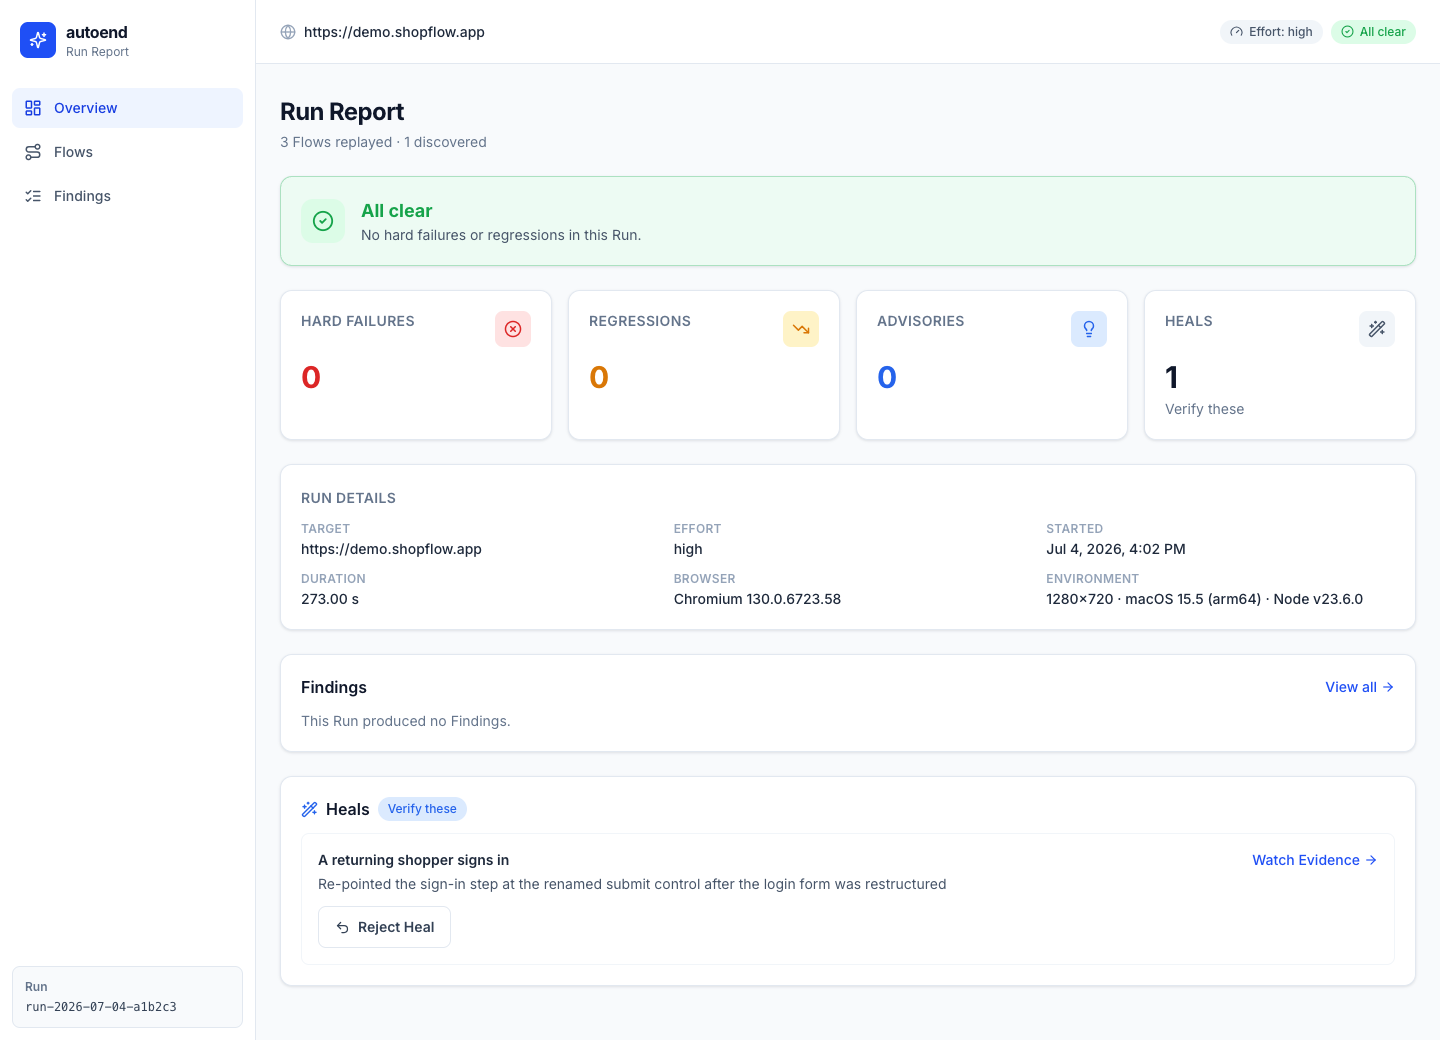
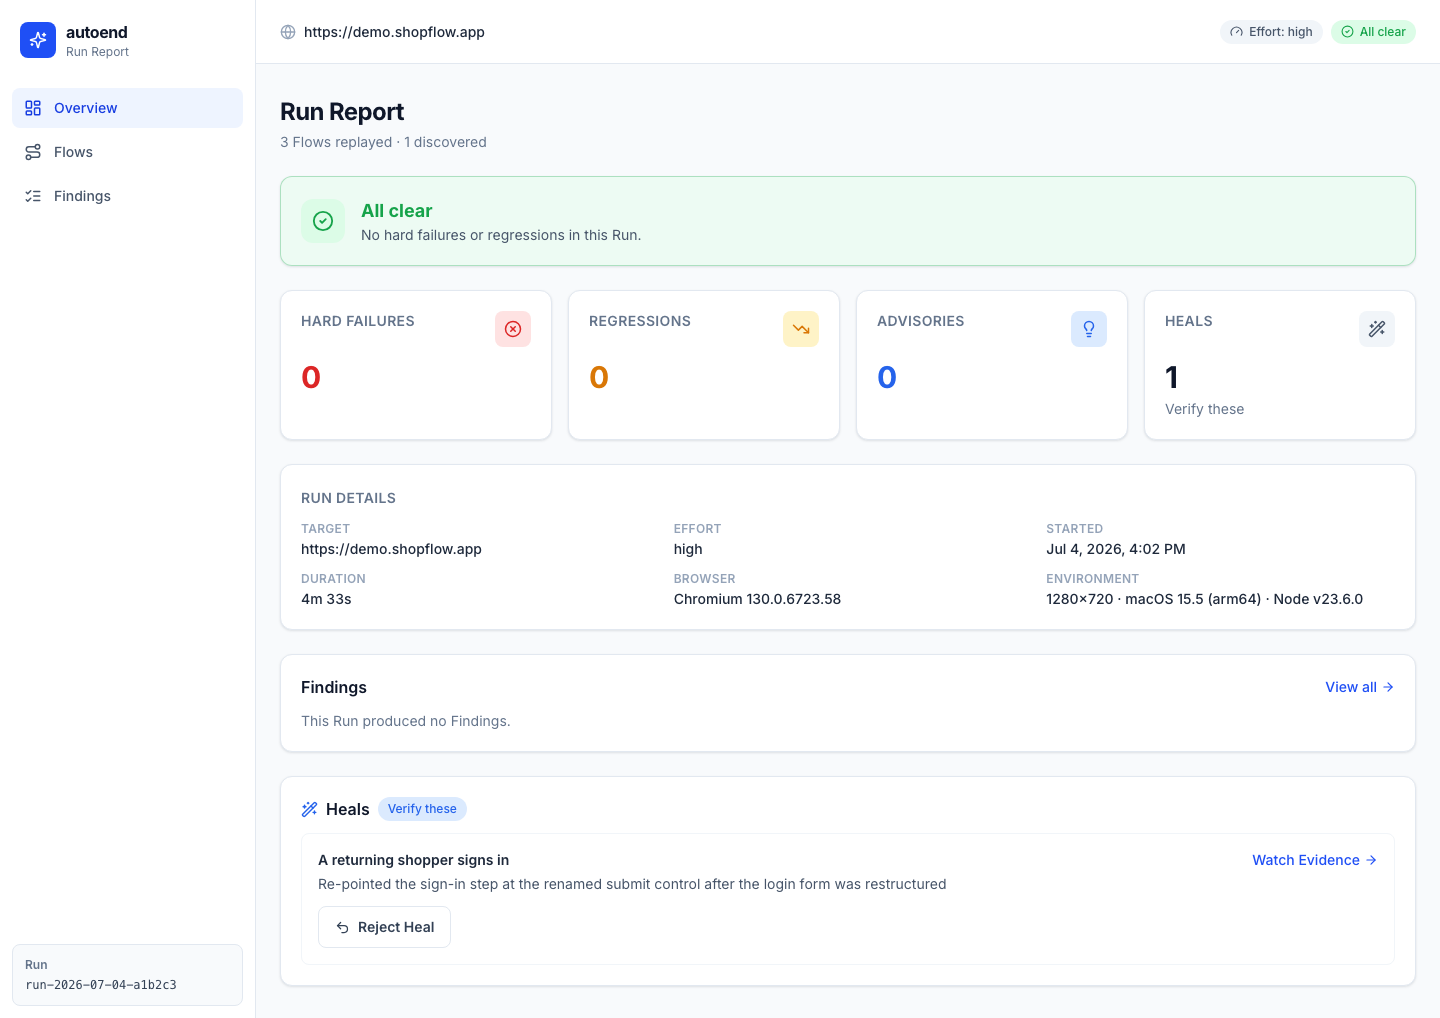
fix: final review — SPA builds to dist/spa (server.js safe + unserved), run-scale durations, viewer polish

diff --git a/src/viewer/server.ts b/src/viewer/server.ts
@@ -8,7 +8,7 @@ import { readRunArtifact, updateFinding } from '../report/artifact.js';
 
 /**
  * The thin viewer over a Run artifact (ADR-0004): serves the built lumen
- * viewer (dist/viewer) plus the artifact's files. Resolution actions
+ * viewer (dist/spa) plus the artifact's files. Resolution actions
  * (Dismiss / Reject / Suppress — one per Finding tier) are plain file edits
  * against the repo's Flow Map; they only work when a repoRoot is provided
  * (the Report is portable, the Flow Map is not). This server must stay dumb:
@@ -19,8 +19,8 @@ export interface Viewer {
   server: Server;
 }
 
-/** dist/viewer sits at the package root beside src/ and dist/ — this resolves identically from both. */
-const VIEWER_DIST = fileURLToPath(new URL('../../dist/viewer/', import.meta.url));
+/** dist/spa sits at the package root beside src/ and dist/ — this resolves identically from both. */
+const VIEWER_DIST = fileURLToPath(new URL('../../dist/spa/', import.meta.url));
 
 const CONTENT_TYPES: Record<string, string> = {
   '.html': 'text/html; charset=utf-8',
@@ -128,6 +128,7 @@ async function resolveFinding(
   res: ServerResponse,
 ): Promise<void> {
   if (action === 'reject') {
+    // TODO: design the :id semantics for Reject — Heals are not Findings and the UI currently sends heal.flowId — when Heal production lands (ADR-0006 follow-up).
     sendJson(res, 501, { error: 'Reject requires Heals, which are not produced yet (ADR-0006 follow-up)' });
     return;
   }
@@ -186,7 +187,7 @@ export function serveReport(artifactDir: string, port = 0, repoRoot?: string): P
         await resolveFinding(artifactDir, repoRoot, id, match[2] as 'dismiss' | 'suppress' | 'reject', res);
       } else if (req.method === 'GET') {
         // The built viewer: `/` is index.html (hash routing — no history
-        // fallback needed), everything else resolves inside dist/viewer.
+        // fallback needed), everything else resolves inside dist/spa.
         const decoded = decodePath(url.pathname === '/' ? 'index.html' : url.pathname.slice(1));
         const rel = decoded === null ? null : normalize(decoded);
         if (rel === null || rel.startsWith('..') || isAbsolute(rel)) {

diff --git a/viewer/src/pages/Findings.tsx b/viewer/src/pages/Findings.tsx
@@ -3,18 +3,12 @@ import { Video } from "lucide-react";
 import { PageHeader } from "../components/PageHeader";
 import { KindBadge } from "../components/StatusBadge";
 import { useReport } from "../data/report";
-import type { FindingKind } from "../types";
-
-const tierRank: Record<FindingKind, number> = {
-  "hard-failure": 0,
-  regression: 1,
-  advisory: 2,
-};
+import { TIER_RANK } from "../data/helpers";
 
 export function Findings() {
   const { artifact } = useReport();
-  const findings = [...artifact.findings].sort((a, b) => tierRank[a.kind] - tierRank[b.kind]);
-  const flowTitle = (flowId?: string) =>
+  const findings = [...artifact.findings].sort((a, b) => TIER_RANK[a.kind] - TIER_RANK[b.kind]);
+  const lookupFlow = (flowId?: string) =>
     flowId ? artifact.flows.find((f) => f.id === flowId) : undefined;
 
   return (
@@ -44,7 +38,7 @@ export function Findings() {
               </thead>
               <tbody className="divide-y divide-slate-100">
                 {findings.map((f) => {
-                  const flow = flowTitle(f.flowId);
+                  const flow = lookupFlow(f.flowId);
                   return (
                     <tr key={f.id} className="hover:bg-slate-50">
                       <td className="px-4 py-3 align-top">

diff --git a/test/viewer.test.ts b/test/viewer.test.ts
@@ -12,9 +12,9 @@ import { filterSuppressed } from '../src/run/run.js';
 import { serveReport } from '../src/viewer/server.js';
 
 const ROOT = fileURLToPath(new URL('..', import.meta.url));
-const VIEWER_DIST = join(ROOT, 'dist', 'viewer');
+const VIEWER_DIST = join(ROOT, 'dist', 'spa');
 
-// Build the lumen viewer bundle once if absent — the server under test serves it.
+// Build the lumen viewer bundle (dist/spa) once if absent — the server under test serves it.
 beforeAll(() => {
   if (!existsSync(join(VIEWER_DIST, 'index.html'))) {
     execSync('npm run build:viewer', { cwd: ROOT, stdio: 'inherit' });
@@ -128,9 +128,14 @@ describe('static viewer', () => {
     expect(res.headers.get('content-type')).toContain('text/javascript');
   });
 
-  it('rejects paths that escape dist/viewer', async () => {
+  it('rejects paths that escape the SPA root', async () => {
     const { url } = await startViewer(true);
     expect([400, 404]).toContain(await rawStatus(url, '/assets/../../package.json'));
+  });
+
+  it('does not serve the compiled server bundle from the SPA root', async () => {
+    const { url } = await startViewer(true);
+    expect(await rawStatus(url, '/server.js')).toBe(404);
   });
 });
 

diff --git a/viewer/src/components/investigation/ExportMenu.tsx b/viewer/src/components/investigation/ExportMenu.tsx
@@ -1,7 +1,7 @@
 import { useEffect, useRef, useState } from "react";
 import { Download, ChevronDown, FileJson, ClipboardCopy, Check } from "lucide-react";
-import type { Environment, FaultDomain, Finding } from "../../types";
-import { KIND_LABEL } from "../../data/helpers";
+import type { Environment, Finding } from "../../types";
+import { FAULT_LABEL, KIND_LABEL } from "../../data/helpers";
 
 interface Props {
   finding: Finding;
@@ -9,12 +9,6 @@ interface Props {
   target: string;
   environment: Environment;
 }
-
-const faultLabel: Record<FaultDomain, string> = {
-  app: "App",
-  flow: "Flow",
-  environment: "Environment",
-};
 
 /** The portable Finding export: the whole Finding, wrapped with its Run provenance. */
 function buildReport(finding: Finding, runId: string, target: string) {
@@ -34,7 +28,7 @@ function buildTextSummary(finding: Finding, env: Environment): string {
   if (d) {
     lines.push(
       "",
-      `**Diagnosis:** ${d.rootCause} — ${faultLabel[d.faultDomain]} fault, ${d.confidence}% confidence`,
+      `**Diagnosis:** ${d.rootCause} — ${FAULT_LABEL[d.faultDomain]} fault, ${d.confidence}% confidence`,
     );
   }
 

diff --git a/viewer/src/data/helpers.ts b/viewer/src/data/helpers.ts
@@ -1,4 +1,4 @@
-import type { FindingKind } from "../types";
+import type { FaultDomain, FindingKind } from "../types";
 
 export const KIND_LABEL: Record<FindingKind, string> = {
   "hard-failure": "Hard Failure",
@@ -13,10 +13,26 @@ export const KIND_TONE: Record<FindingKind, "fail" | "warn" | "ai"> = {
   advisory: "ai",
 };
 
+/** Finding tier sort order (CONTEXT.md tiers) shared by Overview / Findings. */
+export const TIER_RANK: Record<FindingKind, number> = {
+  "hard-failure": 0,
+  regression: 1,
+  advisory: 2,
+};
+
+/** Fault domain → display label shared by FailureAnalysisCard / ExportMenu. */
+export const FAULT_LABEL: Record<FaultDomain, string> = {
+  app: "App",
+  flow: "Flow",
+  environment: "Environment",
+};
+
 export function formatDuration(ms: number): string {
   if (ms <= 0) return "-";
   if (ms < 1000) return `${ms} ms`;
-  return `${(ms / 1000).toFixed(2)} s`;
+  if (ms < 60000) return `${(ms / 1000).toFixed(2)} s`;
+  const seconds = Math.round(ms / 1000);
+  return `${Math.floor(seconds / 60)}m ${seconds % 60}s`;
 }
 
 export function formatDateTime(iso: string): string {

diff --git a/viewer/src/pages/Overview.tsx b/viewer/src/pages/Overview.tsx
@@ -13,14 +13,7 @@ import { MetricCard } from "../components/MetricCard";
 import { KindBadge } from "../components/StatusBadge";
 import { ResolutionActions } from "../components/ResolutionActions";
 import { useReport } from "../data/report";
-import { formatDateTime, formatDuration } from "../data/helpers";
-import type { FindingKind } from "../types";
-
-const tierRank: Record<FindingKind, number> = {
-  "hard-failure": 0,
-  regression: 1,
-  advisory: 2,
-};
+import { formatDateTime, formatDuration, TIER_RANK } from "../data/helpers";
 
 export function Overview() {
   const { artifact } = useReport();
@@ -37,7 +30,7 @@ export function Overview() {
 
   const env = artifact.environment;
   const topFindings = [...artifact.findings]
-    .sort((a, b) => tierRank[a.kind] - tierRank[b.kind])
+    .sort((a, b) => TIER_RANK[a.kind] - TIER_RANK[b.kind])
     .slice(0, 5);
 
   return (

diff --git a/viewer/src/components/investigation/FailureAnalysisCard.tsx b/viewer/src/components/investigation/FailureAnalysisCard.tsx
@@ -1,12 +1,7 @@
 import { Stethoscope, Crosshair, Cpu } from "lucide-react";
 import type { Diagnosis, FaultDomain } from "../../types";
+import { FAULT_LABEL } from "../../data/helpers";
 import { ConfidenceMeter } from "./ConfidenceMeter";
-
-const domainLabel: Record<FaultDomain, string> = {
-  app: "App",
-  flow: "Flow",
-  environment: "Environment",
-};
 
 const domainTone: Record<FaultDomain, string> = {
   app: "bg-sky-100 text-sky-700",
@@ -22,7 +17,7 @@ export function FailureAnalysisCard({ diagnosis }: { diagnosis: Diagnosis }) {
         <h2 className="text-sm font-semibold text-status-ai">Diagnosis</h2>
         <span className={`pill ml-auto ${domainTone[diagnosis.faultDomain]}`}>
           <Cpu size={13} />
-          {domainLabel[diagnosis.faultDomain]} fault
+          {FAULT_LABEL[diagnosis.faultDomain]} fault
         </span>
       </div>
 

diff --git a/viewer/src/pages/FindingDetails.tsx b/viewer/src/pages/FindingDetails.tsx
@@ -101,7 +101,7 @@ export function FindingDetails() {
 
         <div className="space-y-6">
           <section className="card p-5">
-            <span className="section-title">Details</span>
+            <span className="section-title">Metadata</span>
             <dl className="mt-3 space-y-2.5 text-sm">
               <div className="flex items-center justify-between gap-3">
                 <dt className="text-slate-500">Kind</dt>

diff --git a/viewer/vite.config.ts b/viewer/vite.config.ts
@@ -61,5 +61,5 @@ export default defineConfig({
   root: __dirname,
   base: './',
   plugins: [react(), fixtureReport()],
-  build: { outDir: '../dist/viewer', emptyOutDir: true },
+  build: { outDir: '../dist/spa', emptyOutDir: true },
 });
